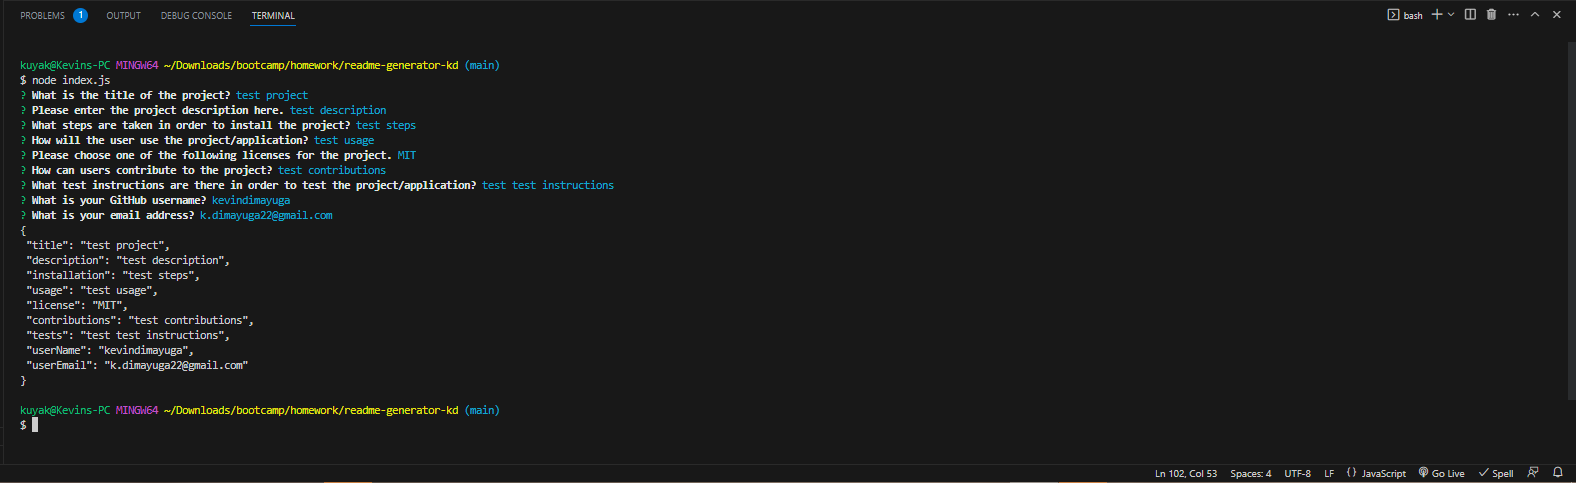
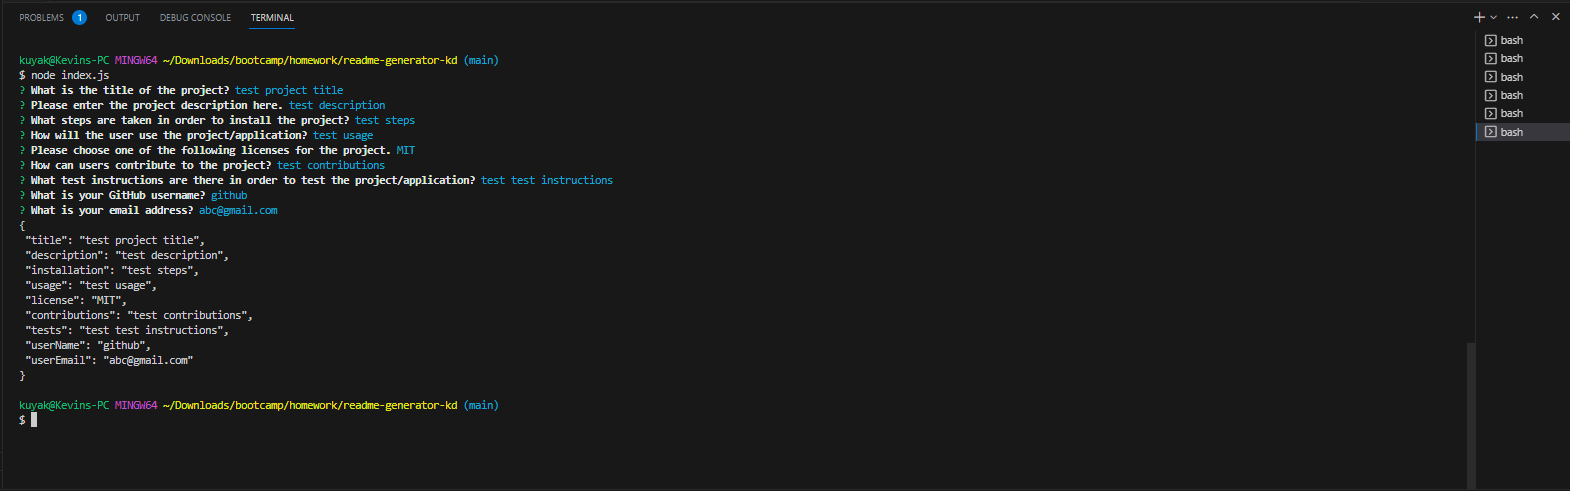
fixed index.js to generate readme, added new screenshots and video links

diff --git a/index.js b/index.js
@@ -90,7 +90,7 @@ const questions = [
 
 // TODO: Create a function to write README file
 function writeToFile(fileName, data) {
-    fs.writeToFile(fileName, generateMarkdown(data), function(err) {
+    fs.writeFile(fileName, generateMarkdown(data), function(err) {
         if (err) {
             return console.log(err);
         }

diff --git a/README.md b/README.md
@@ -14,7 +14,8 @@ The motivation behind this project was to learn how to utilize the skills I've l
 - GitHub Repo URL: https://github.com/kevindimayuga/readme-generator-kd
 - GitHub Pages WebPage Deployment URL: n/a
 
-- Since this will be a command-line application and not a webpage application, you can use the following [LINK]() to access a video walkthrough on how to use the README generator application.
+- Since this will be a command-line application and not a webpage application, you can use the following [LINK](https://drive.google.com/file/d/1n4jqby6HYdnsotiH87S_bE5M_-LJ9Jzr/view) to access a video walkthrough on how to use the README generator application.
+    - [README Generator Video Walkthrough](https://drive.google.com/file/d/1n4jqby6HYdnsotiH87S_bE5M_-LJ9Jzr/view)
 
 ## Webpage Screenshot
 
@@ -22,7 +23,7 @@ The motivation behind this project was to learn how to utilize the skills I've l
 ![readme generator command line example screenshot](./assets/images/cli-application-test-kd.PNG)
 
 #### Generated README test example:
-![generated README example screenshot](./assets/images/kevindimayuga.github.io_weather-dashboard-kd.png)
+![generated README example screenshot](./assets/images/generated-readme-example-kd.PNG)
 
 ## Table of Contents
 

diff --git a/output/README.md b/output/README.md
@@ -1,0 +1,36 @@
+
+  
+  # Project Title
+  test project title
+  [![License: MIT](https://img.shields.io/badge/License-MIT-yellow)](https://opensource.org/license/mit/)
+  
+  ## Description
+  test description
+
+  ## Table of Contents
+  - [Installation](#Installation)
+  - [Usage](#Usage)
+  - [License](#Installation)
+  - [Contributing](#Contributing)
+  - [Tests](#Tests)
+  - [Questions](#Contact-Information)
+
+  ## Installation
+  test steps
+
+  ## Usage
+  test usage
+
+  ## License 
+  MIT
+
+  ## Contributions
+  test contributions
+
+  ## Tests
+  test test instructions
+
+  ## Contacts
+  - GitHub: github
+  - Email: abc@gmail.com
+
